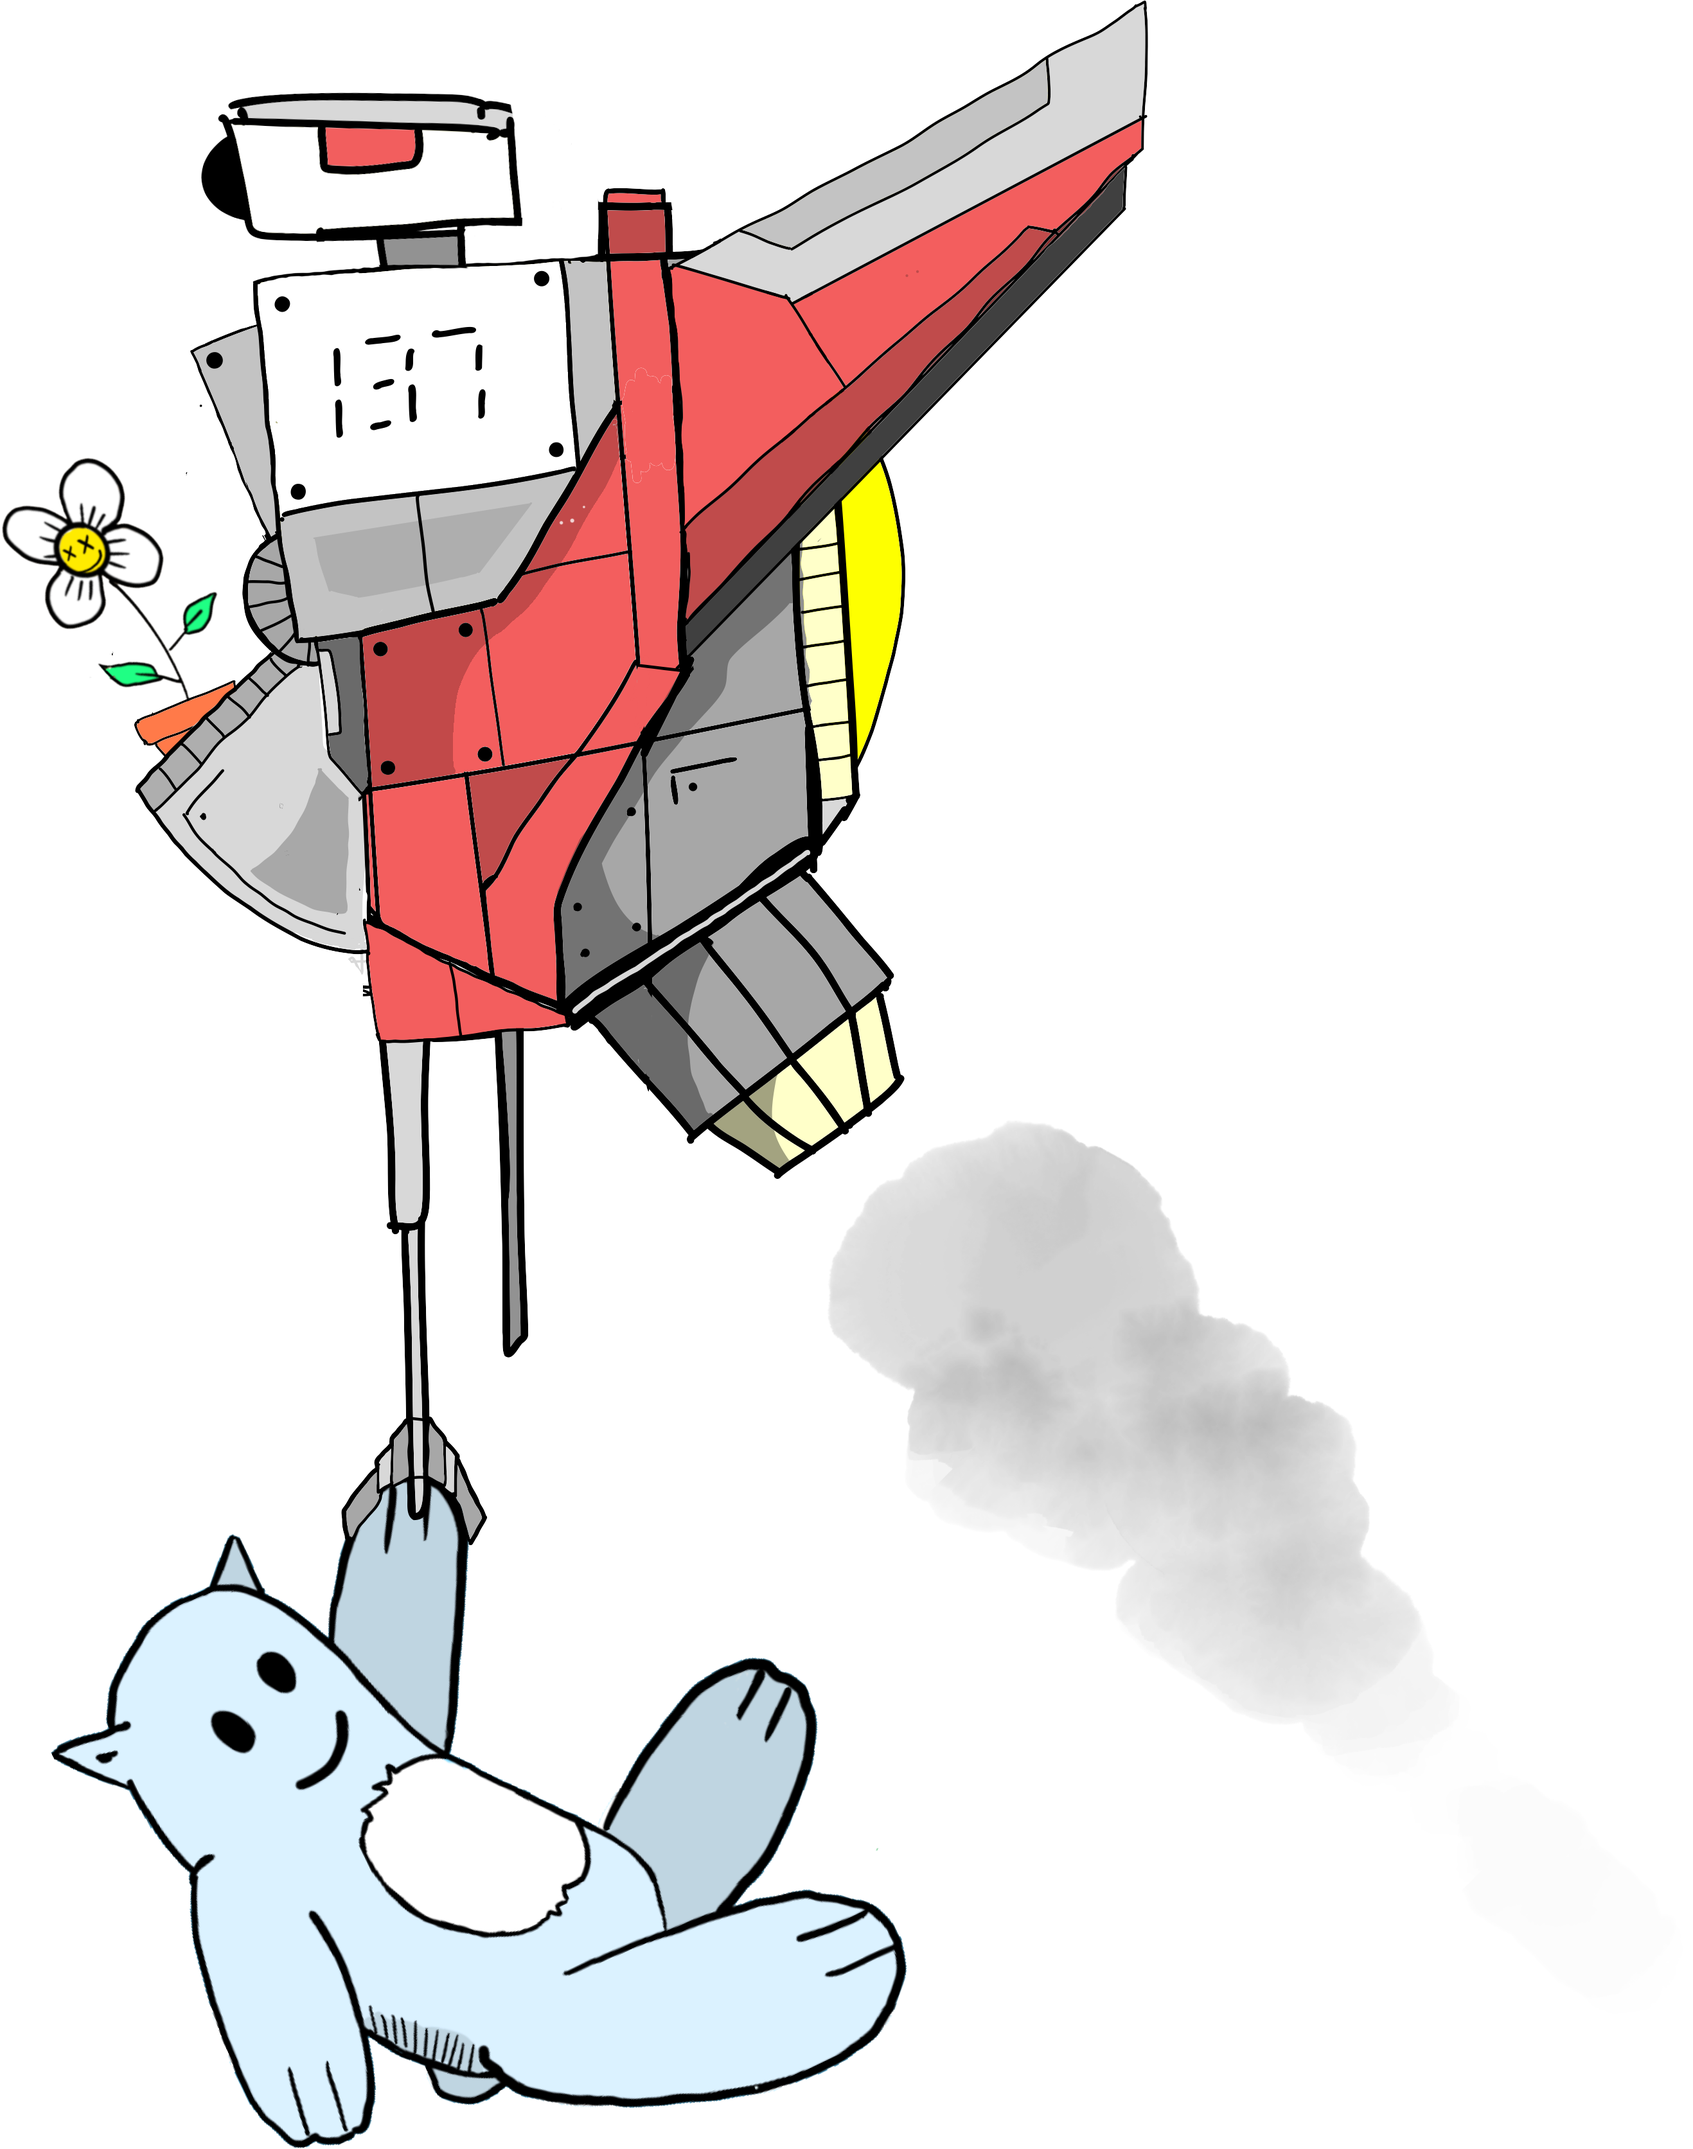
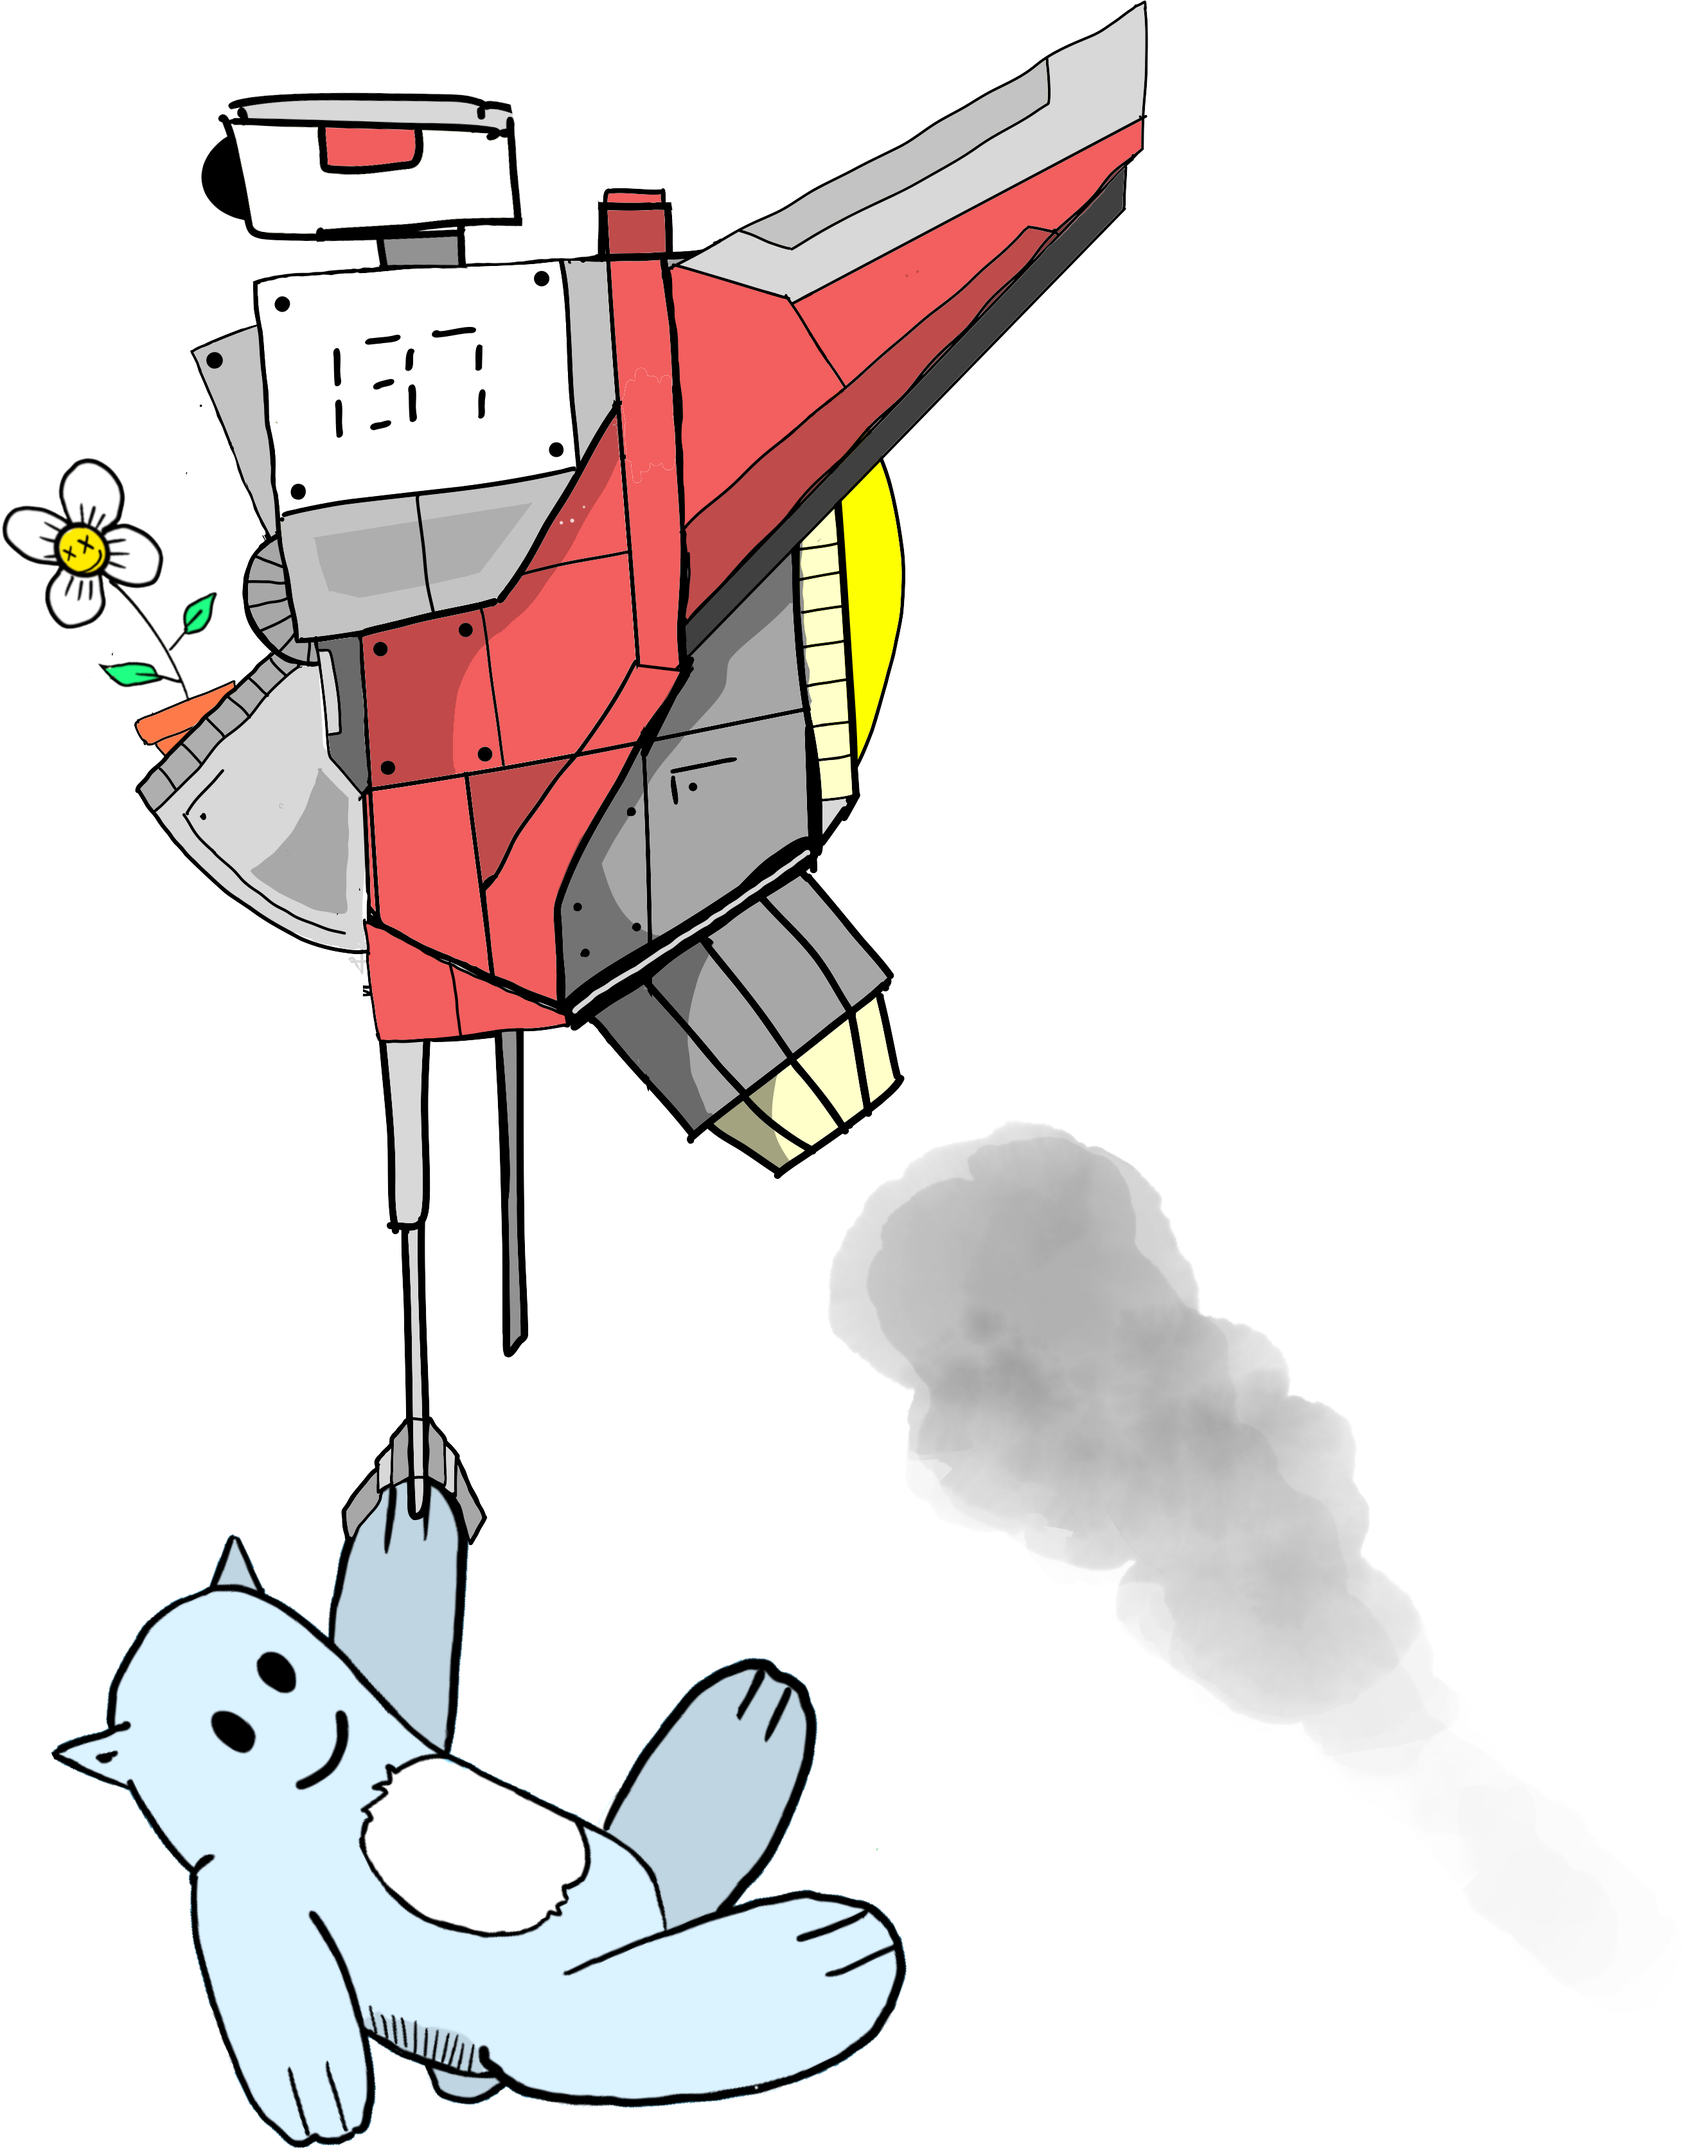
add more parallax sections

Changed region(s): [[0.529, 0.5286, 0.6846, 0.7151]]

diff --git a/src/components/ParallaxSection.vue b/src/components/ParallaxSection.vue
@@ -46,7 +46,7 @@ export default {
     noPadding: { type: Boolean, default: false },
     parallaxSpeed: { type: Number, default: 0.5 },
     foregroundMaxWidth: { type: String, default: '300px' },
-    foregroundMaxWidthMobile: { type: String, default: '200px' },
+    foregroundMaxWidthMobile: { type: String, default: '90%' },
     floatingForeground: { type: Boolean, default: false },
   },
   data() {
